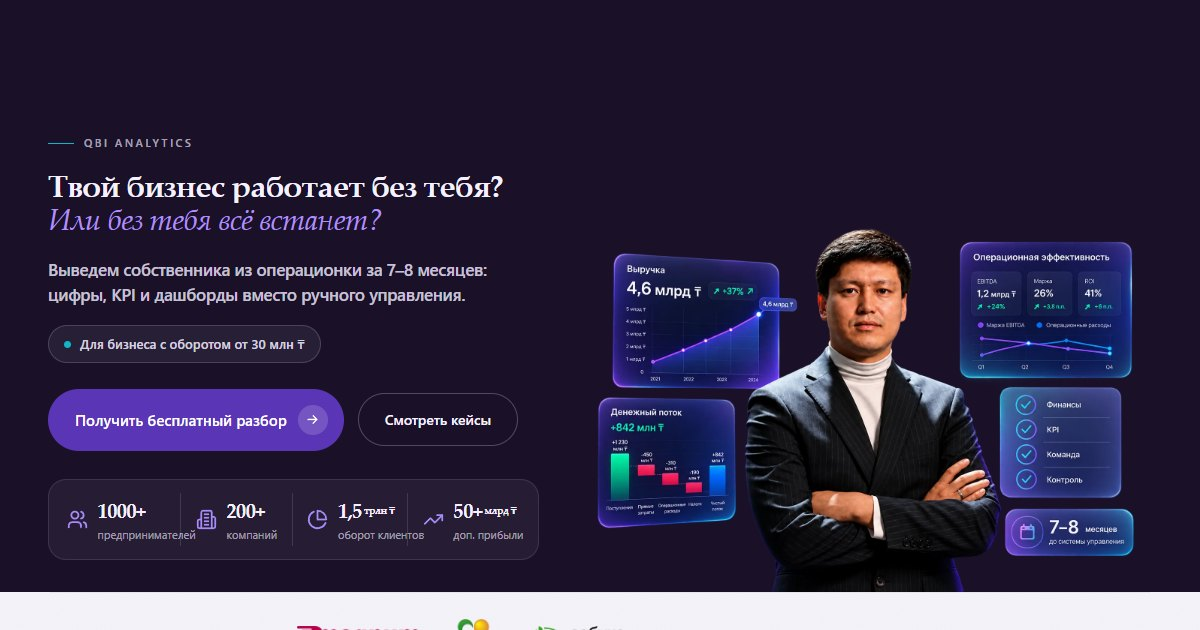
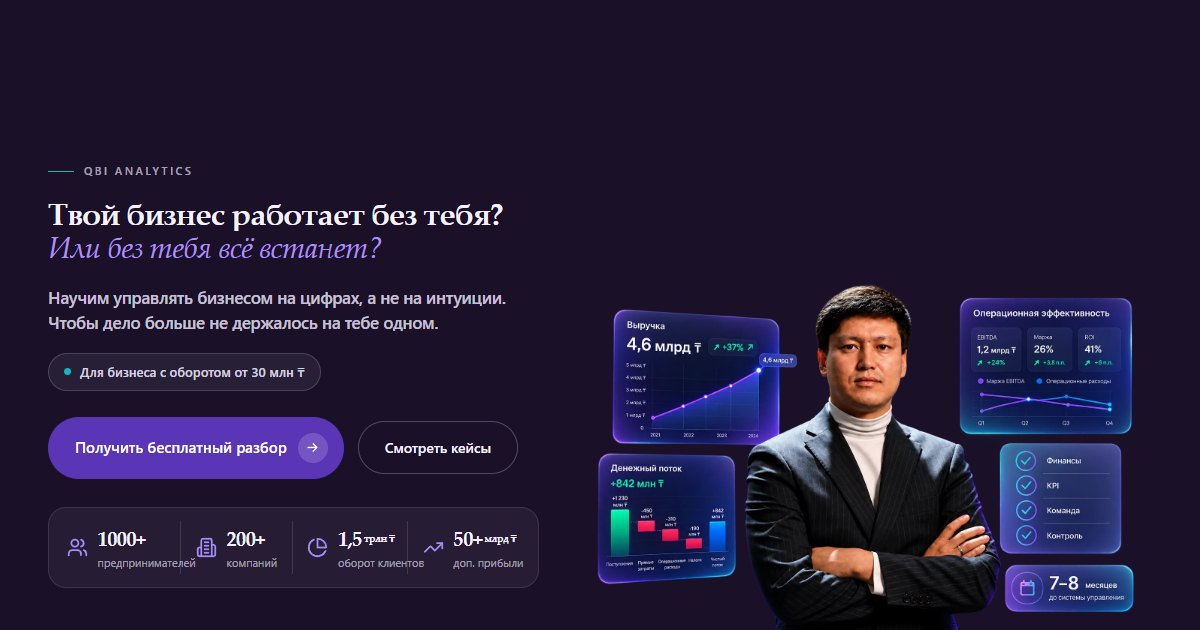
Новый подзаголовок hero про управление на цифрах, пересъёмка OG-обложки

Changed region(s): [[0.0, 0.3619, 1.0, 1.0], [0.0308, 0.2111, 0.4317, 0.9048]]

diff --git a/index.html b/index.html
@@ -12,13 +12,13 @@
 <meta property="og:title" content="QBI Analytics · Твой бизнес работает без тебя?">
 <meta property="og:description" content="Выведем собственника из операционки за 7–8 месяцев: цифры, KPI и дашборды вместо ручного управления. Бесплатный разбор от Максата Калибекова.">
 <meta property="og:url" content="https://qbi-site.pages.dev/">
-<meta property="og:image" content="https://qbi-site.pages.dev/assets/og-cover.jpg?v=4">
+<meta property="og:image" content="https://qbi-site.pages.dev/assets/og-cover.jpg?v=5">
 <meta property="og:image:width" content="1200">
 <meta property="og:image:height" content="630">
 <meta name="twitter:card" content="summary_large_image">
 <meta name="twitter:title" content="QBI Analytics · Твой бизнес работает без тебя?">
 <meta name="twitter:description" content="Выведем собственника из операционки за 7–8 месяцев: цифры, KPI и дашборды вместо ручного управления. Бесплатный разбор от Максата Калибекова.">
-<meta name="twitter:image" content="https://qbi-site.pages.dev/assets/og-cover.jpg?v=4">
+<meta name="twitter:image" content="https://qbi-site.pages.dev/assets/og-cover.jpg?v=5">
 <meta name="theme-color" content="#f4f3f9">
 <link rel="icon" href="/favicon.ico" sizes="32x32">
 <link rel="icon" href="assets/favicon-192.png" type="image/png" sizes="192x192">
@@ -614,7 +614,7 @@
   <div class="hero-text">
     <span class="eyebrow">QBI Analytics</span>
     <h1 class="hero-h"><span class="ln"><span class="l1">Твой бизнес работает без тебя?</span></span><span class="ln"><span class="l2"><em>Или без тебя всё встанет?</em></span></span></h1>
-    <p class="role">Выведем собственника из операционки за 7–8 месяцев: цифры, KPI и дашборды вместо ручного управления.</p>
+    <p class="role">Научим управлять бизнесом на цифрах, а не на интуиции. Чтобы дело больше не держалось на тебе одном.</p>
     <div class="hero-note">Для бизнеса с оборотом от 30 млн ₸</div>
     <div class="cta-row">
       <a href="#form" class="btn btn-primary btn-lg">Получить бесплатный разбор <span class="chip"><svg width="15" height="15" viewBox="0 0 24 24" fill="none" stroke="currentColor" stroke-width="2.2" stroke-linecap="round" stroke-linejoin="round"><path d="M5 12h14M13 6l6 6-6 6"/></svg></span></a>
